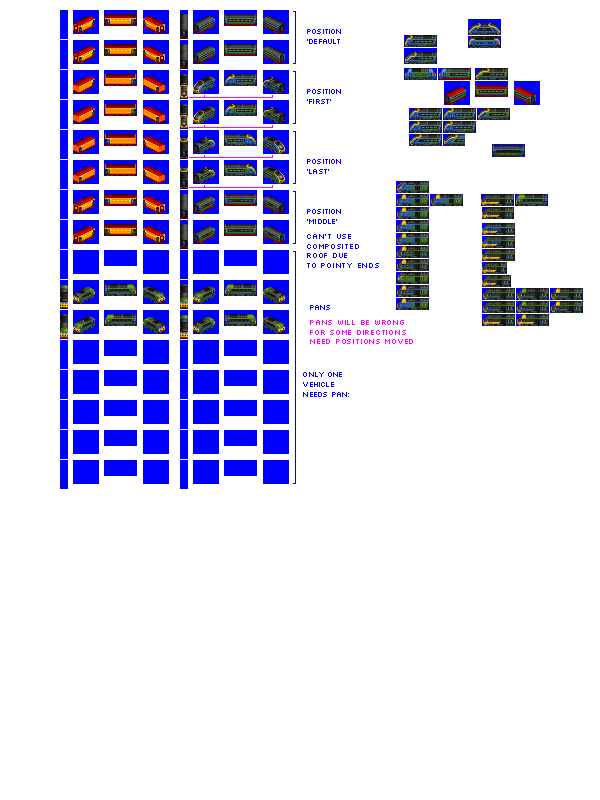
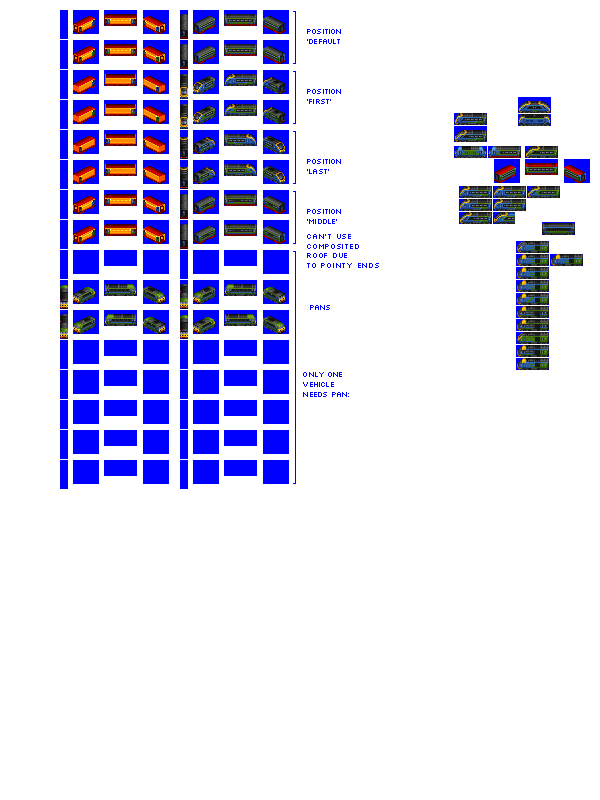
Change: sprites complete for Nimbus and trailer

Changed region(s): [[0.51, 0.0, 0.99, 0.4688], [0.3, 0.0938, 0.36, 0.2188], [0.45, 0.1562, 0.48, 0.25]]

diff --git a/src/vehicles/pony/nimbus.py b/src/vehicles/pony/nimbus.py
@@ -1,4 +1,4 @@
-from train import PassengerEngineExpressRailcarConsist, ElectricExpressRailcarPaxUnit
+from train import PassengerEngineExpressRailcarConsist, ElectroDieselExpressRailcarPaxUnit
 
 
 def main(roster_id, **kwargs):
@@ -15,18 +15,18 @@ def main(roster_id, **kwargs):
         },
         intro_year_offset=-9,  # let's be a little bit earlier for this one - keep match to HST coaches
         gen=6,
-        pantograph_type="z-shaped-double",
+        pantograph_type="z-shaped-double-with-base",
         lgv_capable=True,  # for lolz
         tilt_bonus=True,  # for lolz
-        sprites_complete=False,
+        sprites_complete=True,
     )
 
     consist.add_unit(
-        type=ElectricExpressRailcarPaxUnit,
+        type=ElectroDieselExpressRailcarPaxUnit,
         weight=60,
         capacity=24,
         chassis="railcar_32px",
-        tail_light="very_high_speed_32px_2",
+        tail_light="railcar_32px_5",
         suppress_roof_sprite=True,
         repeat=2,
     )

diff --git a/src/vehicles/pony/express_railcar_passenger_trailer_cars_pony.py b/src/vehicles/pony/express_railcar_passenger_trailer_cars_pony.py
@@ -63,13 +63,13 @@ def main(roster_id, **kwargs):
         subtype="U",
         cab_id="nimbus",
         lgv_capable=True,
-        sprites_complete=False,
+        sprites_complete=True,
     )
 
     consist.add_unit(
         type=PaxRailcarTrailerCar,
         chassis="high_speed_32px",
-        tail_light="railcar_32px_3",
+        tail_light="railcar_32px_5",
         suppress_roof_sprite=True,
         repeat=2,
     )
